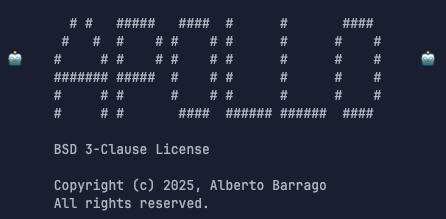
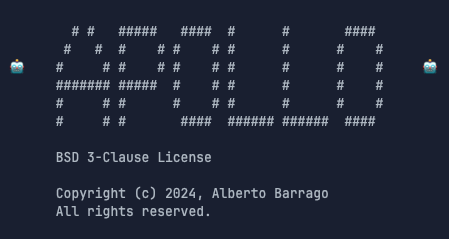
update year

diff --git a/README.md b/README.md
@@ -1,6 +1,6 @@
 # ApolloAgent
 
-![img_1.png](screen.png)
+![img.png](screen.png)
 
 ApolloAgent is a custom AI agent that implements various functions for code assistance.
 
